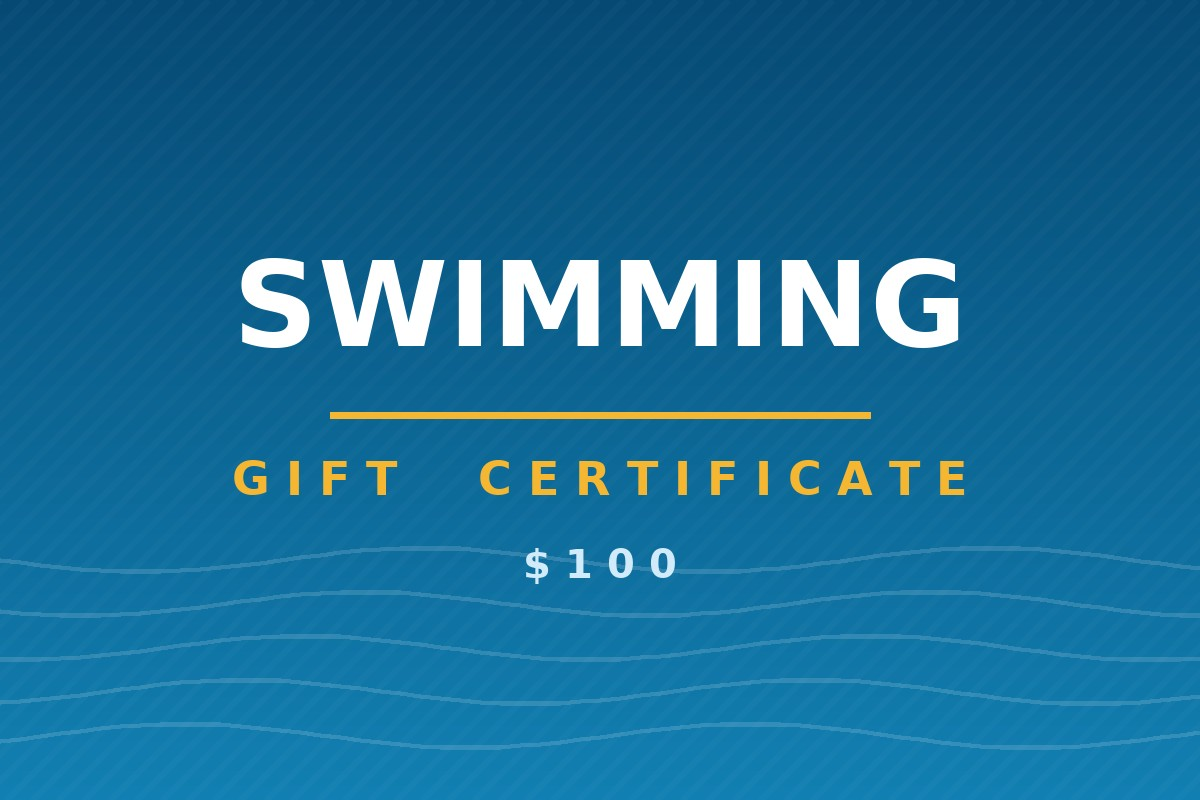
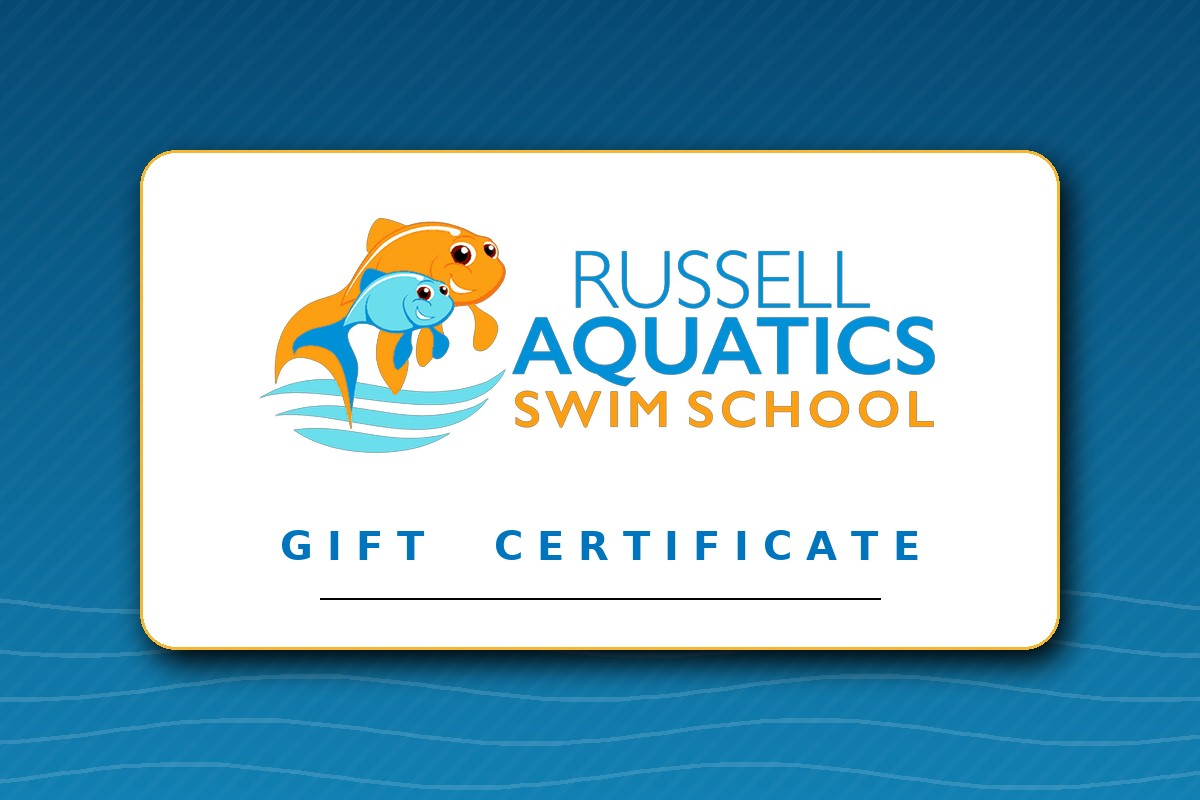
Add company names (Prof): Master Myung Tae Kwon Do + Russell Aquatics Swim School
Descriptions now name both schools. Taekwondo card rebuilt with the
Myung academy crest (their site logo is 132px, too small to feature);
swimming card rebuilt with Russell Aquatics' official logo from
russellaquatics.com on the pool-blue card.

diff --git a/index.html b/index.html
@@ -315,7 +315,7 @@ const PRIZES = [
     description: "Two $50 LCBO gift cards." },
   { name: "Taekwondo Champion Package", category: "Family Adventures & Experiences", value: 750,
     image: "https://raw.githubusercontent.com/chrissandico/fundraising-app/main/assets/prizes/taekwondo.jpg",
-    description: "A 3-month Taekwondo membership &mdash; build confidence, strength, and discipline!" },
+    description: "A 3-month membership at Master Myung Tae Kwon Do &mdash; build confidence, strength, and discipline!" },
   { name: "Ultimate Family Adventure", category: "Family Adventures & Experiences", value: 199,
     image: "https://raw.githubusercontent.com/chrissandico/fundraising-app/main/assets/prizes/family-adventure.jpg",
     description: "A Treetop Trekking zipline &amp; aerial game trek for two, plus a family mini golf pass." },
@@ -324,7 +324,7 @@ const PRIZES = [
     description: "A $100 Canadian Tire gift card." },
   { name: "Active Lifestyle Package", category: "Family Adventures & Experiences", value: 100,
     image: "https://raw.githubusercontent.com/chrissandico/fundraising-app/main/assets/prizes/swimming.jpg",
-    description: "A $100 swimming gift certificate." },
+    description: "A $100 gift certificate for Russell Aquatics Swim School." },
   { name: "Hockey Lion Sharpening Card", category: "Family Adventures & Experiences", value: 100,
     image: "https://raw.githubusercontent.com/chrissandico/fundraising-app/main/assets/prizes/hockey-lion.jpg",
     description: "A $100 Hockey Lion skate sharpening card &mdash; perfect for active families and hockey enthusiasts!" },
